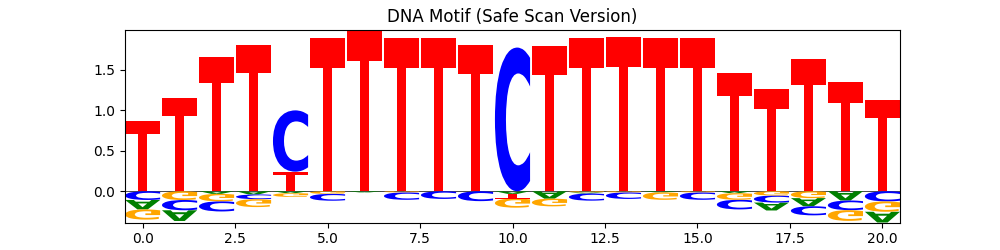
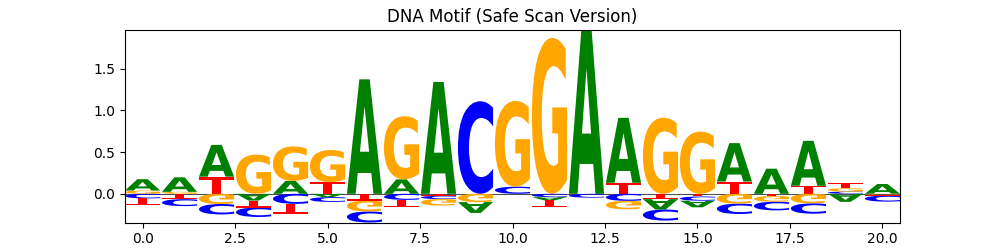
Updated codes
Fixed prepared dataset environment

Changed region(s): [[0.093, 0.112, 0.899, 0.896], [0.093, 0.252, 0.124, 0.308]]

diff --git a/main/GPN_tester.py b/main/GPN_tester.py
@@ -179,7 +179,7 @@ df = pd.DataFrame(pwm, columns=["A", "C", "G", "T"])
 
 info = df * (np.log2(df + 1e-6) - np.log2(0.25))
 
-plt.figure(figsize=(12,4))
+#plt.figure(figsize=(12,4))
 logomaker.Logo(info)
 plt.title("DNA Motif (Safe Scan Version)")
 plt.savefig("motif_safe_scan.png")

diff --git a/main/prepare_dataset.py b/main/prepare_dataset.py
@@ -98,7 +98,6 @@ def one_hot_encode_batch(sequences):
         arr[i, seq_bytes == b'C', 1] = 1
         arr[i, seq_bytes == b'G', 2] = 1
         arr[i, seq_bytes == b'T', 3] = 1
-        # N or other letters remain [0,0,0,0]
 
     return arr
 

diff --git a/main/new_tester.py b/main/new_tester.py
@@ -1,0 +1,5 @@
+from datasets import load_dataset
+
+# or load the separate splits if the dataset has train/validation/test splits
+ds = load_dataset("songlab/genomes-brassicales-balanced-v1")
+print(ds[0])
